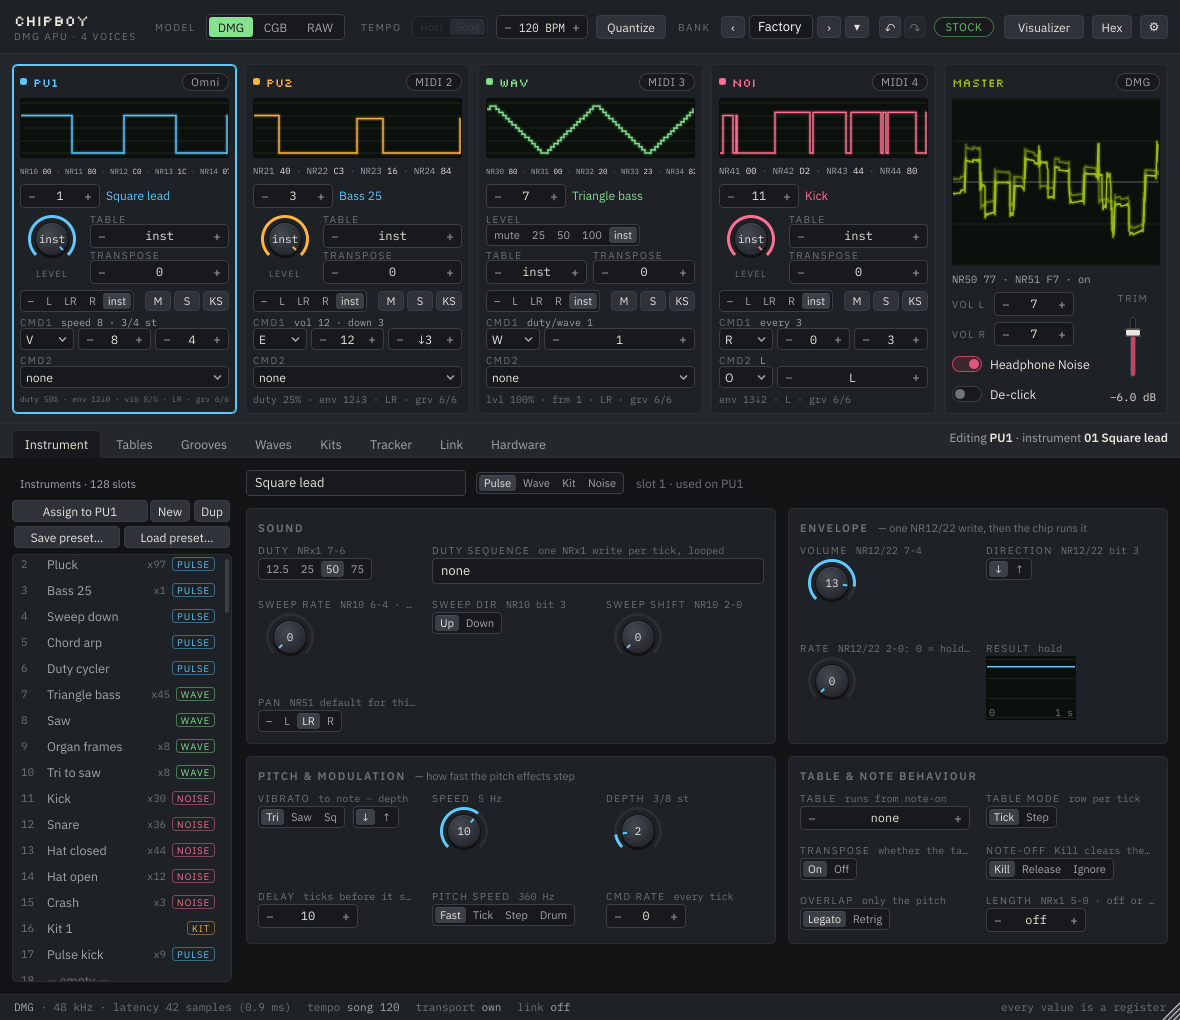
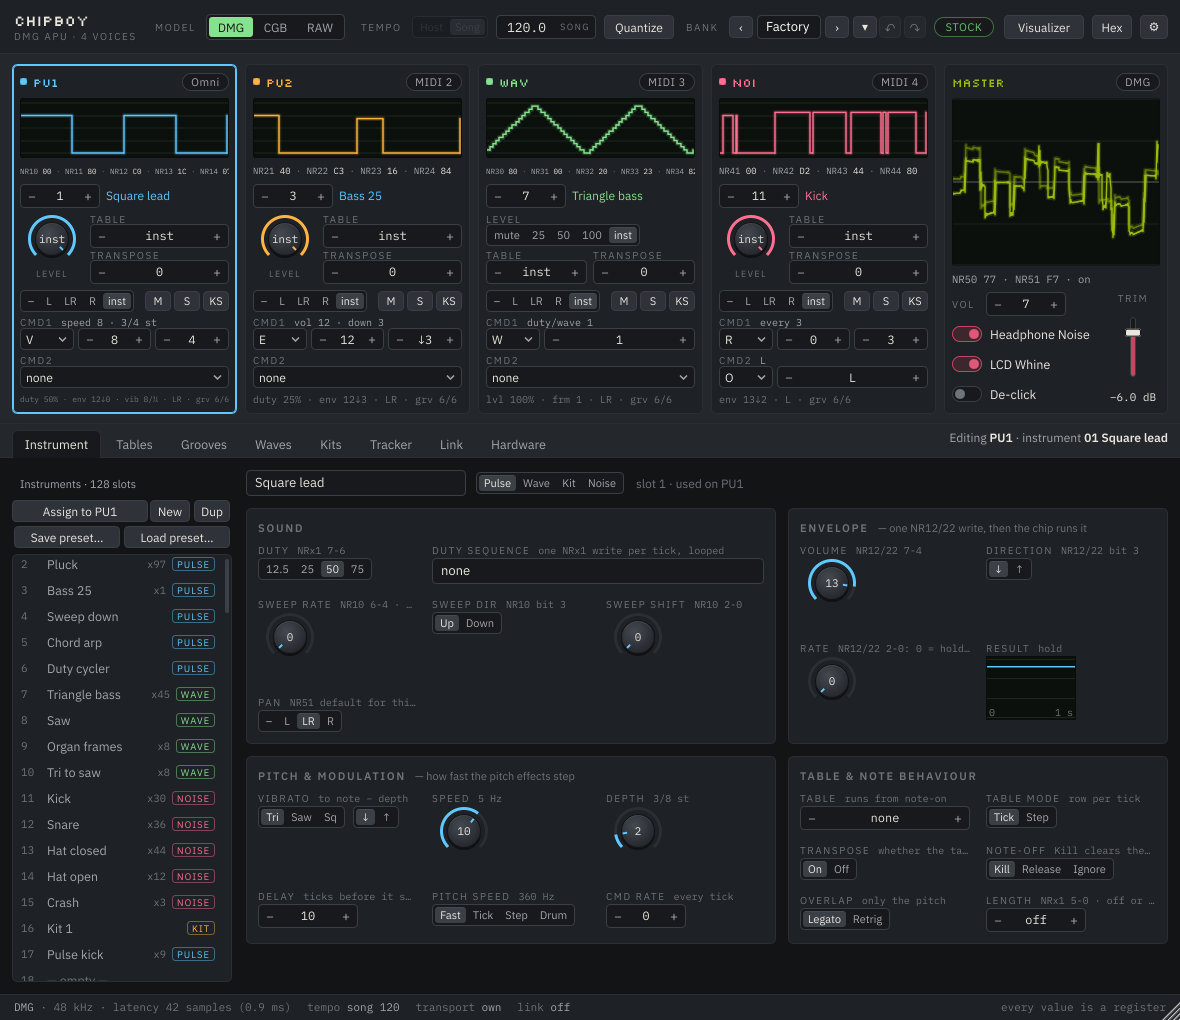
UI_DESIGN and CHANGES record the interface side of the third addendum
Section 2 for the header's tempo readout and the bank group that belongs to
the active song, and for the master strip's one VOL and three switches;
section 3 for how the scopes are held still, with the mechanism written out
-- why the old rule was not a phase, what the three keys are, and why they
survive a sliding window, a note change and vibrato; section 7 for the
three-way PLAYS switch and what a Hybrid channel greys out, for songs being
tabs as well as files, and for the head's new arithmetic, which comes to
the same 112 px.

The screenshots are regenerated from the demo opened in a tab of its own:
the Tracker tab, the header and mixer, the Hardware tab, Grooves and the
Voice window.

The CHANGES entry records the stage section by section, the STOCK badge
staying the window's rather than the tab's -- its two inputs are global
parameters, so a badge that never differed between tabs would only imply
that it could -- and the measurement behind the scope diagnosis.

Claude-Session: https://claude.ai/code/session_015RVPKMpKBZ57UV3Y3PWKkJ

diff --git a/docs/UI_DESIGN.md b/docs/UI_DESIGN.md
@@ -61,9 +61,18 @@ chosen height is remembered with the project, as the scale is. Reading order is 
 bottom: *what am I emulating → what is each voice doing → edit the thing I selected.*
 
 1. **Header.** Wordmark; the **model switch** (DMG / CGB / RAW); the **tempo group** —
-   source (Host / Song), the song's own BPM, and the *Quantize* toggle (§4); the bank
-   name with previous/next; a **STOCK / MODIFIED** badge (§5); the visualizer window
-   button; settings.
+   source (Host / Song), the **tempo in force** as a readout, and the *Quantize* toggle
+   (§4); the bank name with previous/next; a **STOCK / MODIFIED** badge (§5); the
+   visualizer window button; settings. The tempo is read only here — "120.0" with a
+   small *host* or *song* tag, drawn as a well so nothing invites a drag: the host's BPM
+   in Host mode, the active song's tempo in force in Song mode
+   ([`COMMANDS_AND_TEMPO.md`](COMMANDS_AND_TEMPO.md) §19). A song's own master tempo is
+   typed in the Tracker tab beside its *Start* and *Beats*, because it belongs to the
+   song and the window holds several. The **Bank group is the active song's bank**: its
+   name, the arrows and the menu — *Load bank into this song…*, *Save this song's
+   bank…*, *Reset this song's bank to factory* — all act on the song in the active tab
+   (§18). The badge beside it stays the window's: it reads the hardware departures,
+   which §18 keeps global.
 2. **The mixer row.** Four channel strips and a master strip. Every strip has its scope on
    top, mixer-bridge style, so the row reads at a glance while playing.
 3. **Editor tabs.** Instrument · Tables · Grooves · Waves · Kits · Tracker · Link ·
@@ -84,10 +93,19 @@ and solo, which are NR51 gates and therefore pop like the hardware.
 
 ### The master strip
 
-The stereo mix scope in LCD green; **master volume L and R** as 0–7 steppers where 0
-reads "1/8", not "mute"; **Headphone Noise**; the **output trim**, the one continuous
-control in the product, drawn as a fader with a dB readout so nobody mistakes it for
-part of the chip.
+The stereo mix scope in LCD green; the live **NR50 / NR51** line; one **VOL** stepper,
+0–7, where 0 reads "1/8" and not "mute"; the three switches — **Headphone Noise**,
+**LCD Whine**, **De-click**; and the **output trim**, the one continuous control in the
+product, drawn as a fader with a dB readout so nobody mistakes it for part of the chip.
+
+One VOL writes both NR50 sides ([`COMMANDS_AND_TEMPO.md`](COMMANDS_AND_TEMPO.md) §21).
+The two parameters stay — the `M` command and existing automation address left and
+right — so the control writes them together as **one undo step**, shows the left value,
+and, when something has moved them apart, shows both (`7·5`) with the tooltip saying
+which is which. Headphone Noise is the hiss and the frame hum; **LCD Whine** is the
+display's 9198 Hz line, an independent switch, so a unit with a quiet display is a
+switch rather than a compromise. De-click is a departure and lights the header's
+MODIFIED badge; the Hardware tab keeps the same three rows with the measured facts.
 
 ### 2.1 Editing conventions
 
@@ -154,7 +172,34 @@ breathing rather than as the trace sliding.
   DAC, on a 16-level grid; *Analog* is what leaves the machine after the coupling
   capacitor, so a low wave-channel note visibly sags on a DMG and turns into spikes on a
   CGB, and DAC-on clicks show as the steps they are. Both can be shown together.
-- **Zoom:** 1, 2, 4 or 8 periods. Noise uses a fixed time window.
+- **Zoom:** 1, 2, 4 or 8 periods. Noise uses a fixed time window, and so does a kit —
+  a kit is a sample, not a repeating wave, so there is no period to lock to.
+
+**How the picture is held still.** A channel's staircase repeats *exactly* every
+`32 × (2048 − f)` cycles (`64 ×` on the wave channel), so two windows of the same length
+that start on the same **phase** of it draw the same trace whichever period they fall
+in. "Start on the last rising edge before the window" is not that phase: a pulse has one
+rising edge in a period and so picks the same one every frame, but a wave has up to
+sixteen, and which of them was last before a window whose end moves with the audio
+thread is effectively random — the trace jumped by a fraction of a period every frame,
+which is what the flashing was. So the edge is chosen by what the waveform **is**, not
+by where the search began: every rising edge of one whole period is a candidate, and the
+one that **rises furthest** wins — ties go to the one whose level was held longest
+before it (an apex and a trough repeat a sample, and the trace carries only changes, so
+a trough's rise is held longest), then to the one that rises from the lowest level.
+Those are properties of the shape, so they name the same phase every frame and survive
+the window sliding; when the shape changes — a new note, a new wave — the next frame
+picks the new shape's edge and the picture re-locks at once, and under vibrato the
+period moves and the window with it while the edge stays the same one, so the shape
+breathes rather than sliding. A waveform that ties on all three keys has two identical
+halves, and starting on either draws the same picture. Nothing is remembered between
+frames: the paint is a pure function of the samples the timer snapshotted, so two paints
+of one snapshot are one picture. With less history in the ring than the window asks for
+— a low note that has only just started — the search moves up to what there is and the
+window keeps its length, so the picture is aligned and simply runs out on the right.
+`chipboy_uishot --scope-check` holds a note on every channel and renders each scope
+twice, a fifth of a second apart, comparing the two pixel for pixel
+([`COMMANDS_AND_TEMPO.md`](COMMANDS_AND_TEMPO.md) §22).
 - **The master scope** shows the actual output, with the clicks and the droop.
 - **Visualizer window.** A separate, resizable, clean window — the four scopes stacked
   or tiled, plus the master, no chrome, adjustable line weight, black or LCD ground,
@@ -394,10 +439,24 @@ down a column is how a tracker reads.
 **Per channel, in the lane's head**: a **record arm** — a red dot, on for a new song,
 saved with it — then the channel's name, the caption **PLAYS** and the switch that says
 what the channel plays: **MIDI**, the notes arriving from the host, shown greyed in the
-note column as the bar plays; or **Trkr**, its own cells, with incoming MIDI ignored
-([`COMMANDS_AND_TEMPO.md`](COMMANDS_AND_TEMPO.md) §14). A song can mix the two — lead
-from the piano roll, drums from the tracker. The phrase's **groove chip** closes the
-row; the groove itself is edited in the Grooves tab (§7.1).
+note column as the bar plays; **Trkr**, its own cells, with incoming MIDI ignored
+([`COMMANDS_AND_TEMPO.md`](COMMANDS_AND_TEMPO.md) §14); or **Hyb**, both at once — the
+notes come from MIDI and everything else from the cells at their steps, the instrument
+and table they select and their commands, fired once on whatever is sounding (§20). A
+song can mix all three — lead from the piano roll, drums from the tracker, a bass whose
+piano-roll notes take the song's commands. A Hybrid channel shows the roll's note greyed
+in the note column, as a MIDI channel does, since its cells' notes and OFFs are ignored;
+its **strip** carries a **HYBRID** tag beside the channel name and greys its Instrument,
+Table and both command slots, which the driver does not read there — the slots say *from
+the cells* where the resolved command reads, and every one of the four says the same
+thing in its tooltip: *the tracker's cells drive this channel*. Level, Pan, Transpose and
+the Velocity mode still apply.
+
+The phrase's **groove chip** closes the row; the groove itself is edited in the Grooves
+tab (§7.1). The third choice in PLAYS costs the chip about 30 px of a 236 px channel
+group, so it says as much as fits — the slot and its ticks (`2·7/5`) where there is room,
+the ticks alone at the demo's width, the slot number when a narrower window leaves only
+a chip — and the whole of it is in the tooltip and in the menu the chip opens.
 
 **The transport.** *Play*, *Stop* and *Loop* run the song when the plugin owns the
 transport — the Standalone, or a host that offers no play head — from the song start on
@@ -415,20 +474,42 @@ automation included, becomes a self-contained tracker song — the form a playba
 will need (§10). Recording captures what the driver actually did, so nothing is lost in
 translation.
 
-**Songs are files.** *Save song…* and *Load song…* write and read a `.cbsong` — chains,
-phrases, grooves, the steps and the bar overrides, tempo, song start, beats per bar,
-playback sources and arms — in `Documents/ChipBoy/Songs`, beside the banks folder. The
-file also records the bank's name and the name of every instrument slot the song uses,
-so a load can say where this bank differs: the line under the tool rows reads *"Loaded
-ChipBoy Demo — written with bank Factory, 11 instruments used. slot 7 was Triangle bass;
-this bank has Organ"*, and the same line goes to the status bar. With no file open that
-line is the song itself: its bars, its steps and how many phrases it uses.
+**Songs are tabs.** The strip under the head is one tab per loaded song
+([`COMMANDS_AND_TEMPO.md`](COMMANDS_AND_TEMPO.md) §18): its name, a dot while it has
+unsaved work, an **×** that closes it — asking first when that dot is there — and a **+**
+that starts an empty song on the factory bank. Clicking a tab makes it the **active**
+one, and only the active tab is live: it is what plays and records, what the Instrument,
+Tables, Grooves, Waves and Kits tabs show and edit, and whose bank the header's Bank
+group names. Every one of those tabs reads the song and the bank through the same two
+accessors, so a switch redraws all of them; `chipboy_uishot --tab-switch` checks exactly
+that, by marking one tab's bank and song and shooting the five panes on either side of a
+switch. The window keeps at least one song open.
+
+**Songs are files.** *Save song…* writes the active tab — chains, phrases, grooves, the
+steps and the bar overrides, its master tempo, song start, beats per bar, playback
+sources and arms, **and the bank it plays through** — as a `.cbsong` in
+`Documents/ChipBoy/Songs`, beside the banks folder; a tab that came from a file writes
+back to it, and one that has none opens a chooser and takes its name. *Load song…* opens
+a file in a **tab of its own**, unless the active tab is a fresh untitled song with
+nothing to lose, in which case the song lands there. A file that carries its own bank
+(format 5) is complete and brings its sounds with it; an older one takes a copy of the
+active tab's bank and the status line says where that bank differs — *"Opened ChipBoy
+Demo — written with bank Factory, 11 instruments used. slot 7 was Triangle bass; this
+bank has Organ"*. What a file did goes to the status bar, where every other file message
+goes; the tab strip stands where that line used to.
 
 **Numbers.** At the minimum window height the tab has 1156 × 512 and asks for no
 scrolling: a 112 px head over 400 px of lane, which is a 48 px head and sixteen 22 px
-rows. The head is two 26 px tool rows 6 px apart — transport, the playing readout, *Rec*
-and *Steps / bar* on the first; *Start*, *Beats*, *Save song…*, *Load song…* and *Export
-.gb* on the second — over the 48 px line that says what the song is. Across, the chain
+rows. The head is **two rows of grouped tools under their captions, then the tab strip**
+([`COMMANDS_AND_TEMPO.md`](COMMANDS_AND_TEMPO.md) §23): a 12 px caption line over a 26 px
+control row, 4 px, the same again, 6 px, and the 26 px strip where the summary line
+stood — 112 exactly, the same budget as before. Row one is **TRANSPORT** (*Play* 62,
+*Stop* 62, *Loop* 52, then the LED, *playing* and the bar . beat . sixteenth readout,
+328 in all) and **RECORD** (*Rec*, 62); row two is **SONG** (*Tempo* 84 — the song's
+master tempo, typed — *Start* 84, *Beats* 62, *Steps / bar* 80, each behind its own small
+caption, 562 in all) and **FILE** (*Save song…* 104, *Load song…* 104, *Export .gb* 96).
+A 16 px gap with a hairline down the middle of it stands between the two groups of a row,
+so the head reads as four things and not as eleven controls. Across, the chain
 takes 164 px off the right with a 12 px gap, leaving 980 for the lane: a 34 px step
 column and four channel groups of 236, each a 39 px note, 31 vel, 31 ins, 29 tbl and two
 53 px commands. The chain's own 164 is a 25 px gutter for the bar number and five 25 px
@@ -441,15 +522,20 @@ of the bar, so a swung phrase marks the row that is sounding; the position reado
 the transport stays bar . beat . sixteenth, which is the clock and not the groove.
 
 ![The Tracker tab with the demo song in it](screenshots/main-tracker.png)
-*The demo song loaded from `Demo/ChipBoy Demo.cbsong`, playing on the plugin's own
-transport: four channels of cells with their velocities, the arms lit beside each name,
-and the chain on the right with the playing bar marked.*
+*The demo song opened from `Demo/ChipBoy Demo.cbsong` into a tab of its own — the strip
+under the head holds it beside the empty song the plugin starts with — playing on the
+plugin's own transport: four channels of cells with their velocities, the arms lit beside
+each name, the three-way PLAYS switch in each head, and the chain on the right with the
+playing bar marked.*
 
 **The clock is 24 ticks to the beat** and a straight step is six of them, as LSDj. Which
-tempo is in force — *Tempo source*, *Song BPM* and *Quantize* — is the header's group,
-so it is one thing wherever you are working; this tab keeps what belongs to the song:
-its *Start* on the host's timeline and its *Beats* per bar, both greyed in Host mode and
-live whenever the plugin owns the transport, where the source is Song by definition.
+tempo is in force — *Tempo source*, the tempo readout and *Quantize* — is the header's
+group, so it is one thing wherever you are working; this tab keeps what belongs to the
+song: its master *Tempo*, its *Start* on the host's timeline and its *Beats* per bar.
+*Start* is greyed in Host mode and live whenever the plugin owns the transport, where the
+source is Song by definition; *Beats* is live in **both** modes, because the host
+contributes the tempo and never its time signature, so the song's bar is this many beats
+either way ([`COMMANDS_AND_TEMPO.md`](COMMANDS_AND_TEMPO.md) §11 as amended, §19).
 The status bar says which tempo is in force — "tempo host 120" or "tempo song 150".
 In Song mode the position at any host time is the integral of the song's own tempo map — the base tempo plus its `T` cells at known ticks —
 so a jump to bar 9 lands on the step playing through would have reached, and a playback

diff --git a/CHANGES.md b/CHANGES.md
@@ -26,6 +26,110 @@ intended product rather than a progress report.
 
 ## Spec revisions
 
+### 2026-09-08 — song tabs, the head, the master section, scopes, Hybrid (interface)
+
+The third addendum ([`docs/COMMANDS_AND_TEMPO.md`](docs/COMMANDS_AND_TEMPO.md) §18–§23),
+interface side, on top of the engine stage below. Nothing here is new behaviour: it is
+the window catching up with the tabs, the tempo readout, the noise split, the third
+playback source and the scope that was meant to hold still.
+
+**Changed:**
+
+- **The song tab strip (§18).** `ui::SongTabStrip` stands where the Tracker tab's
+  summary line was: one tab per loaded song with its name, a dot while it has unsaved
+  work and an × that closes it — asking first when that dot is there — and a **+** that
+  starts an empty song on the factory bank. Clicking a tab calls `setActiveTab`, and the
+  strip is rebuilt from `tabCount` / `tabName` / `tabFile` / `tabDirty` on the panel's
+  timer, which costs a comparison when nothing moved. *Load song…* now calls
+  `openSongFileInTab`, so a song opens in a tab of its own — unless the active tab is a
+  fresh untitled song with nothing to lose, where it lands in place through
+  `loadSongFile`; *Save song…* writes the tab's own file, or opens a chooser when it has
+  none, and the tab takes the file's name. The window keeps at least one song open.
+- **Every other tab already followed the active one**, through `song()` and `bank()`;
+  the editor's timer notices the two pointers change on a switch and sends
+  `songChanged` / `bankChanged` everywhere. `chipboy_uishot --tab-switch` proves it
+  rather than assuming it: it marks the *other* tab's bank and song — a renamed
+  instrument, a table step, a wave sample, a kit, a groove — then shoots the Instrument,
+  Tables, Grooves, Waves and Kits panes on either side of a switch and fails if any of
+  them drew the same picture twice. (Without the marking the test is worthless: both
+  tabs start on copies of the factory bank, and a new song's grooves *are* the factory
+  grooves, so four of the five panes were identical for good reasons.)
+- **The header's Bank group is the active song's bank (§18).** Its menu reads *Load bank
+  into this song…*, *Save this song's bank…* and *Reset this song's bank to factory*,
+  and the arrows say so too. The **STOCK / MODIFIED badge stays the window's**: it reads
+  the de-click and soften-pops departures, which §18 lists among the things that are
+  global and not per song, so there is nothing per tab for it to say. Considered making
+  it per tab as the brief reads; rejected because its two inputs are global parameters
+  and a badge that never differed between tabs would only imply that they could.
+- **The header's tempo is a readout (§19).** The Song tempo stepper leaves the header; a
+  small well takes its place with the tempo in force — `effectiveTempo()`, one decimal —
+  and a *host* or *song* tag beside it, sized to the tag so neither word is ever cut
+  short. The Host / Song switch stays, with the same rules about the plugin's own
+  transport. The song's **master tempo** is typed in the Tracker head instead, through
+  `setMasterTempo`, which is one undo step over the song and the parameter together.
+- **The Tracker head is two rows of grouped tools (§23).** TRANSPORT (*Play* 62, *Stop*
+  62, *Loop* 52, the LED, *playing*, the position readout) · RECORD (*Rec* 62) on the
+  first row; SONG (*Tempo* 84, *Start* 84, *Beats* 62, *Steps / bar* 80) · FILE (*Save
+  song…* 104, *Load song…* 104, *Export .gb* 96) on the second, each group under a
+  `draw::caption` and separated by a 16 px gap with a hairline down the middle. The
+  budget is unchanged and asserted in the source: 12 caption + 26 controls, 4, the same
+  again, 6, and the 26 px tab strip is 112 exactly, so the lane keeps its 400 px and the
+  tab still asks for no scrolling at 1180 × 1020. **Beats is live in both tempo modes**
+  now (§11 as amended, §19); *Start* still greys in Host mode. What a file did goes to
+  the status bar, which always had it — the head has no line of its own any more.
+- **The master section (§21).** One **VOL** stepper, 0–7, writes `master_l` and
+  `master_r` as one undo step (an explicit `beginGesture` / `endGesture` around the two
+  `setParam` calls). Both parameters stay, so the `M` command and existing automation
+  still address left and right; the readout shows the left value and, when something has
+  moved them apart, both — `7·5` — with the tooltip naming which is which. VOL L and
+  VOL R are gone. **LCD Whine** joins Headphone Noise and De-click as the third switch,
+  and the three of them plus the one stepper take exactly the height the two steppers
+  and two switches did, so the master scope is the same size. In the Hardware tab the
+  whine row no longer greys when the hiss is off — they are independent now — and the
+  two rows' measured facts were split along with them.
+- **The scopes hold still (§22).** The window was always meant to be two periods from a
+  rising edge; what it actually did was start on *the last rising edge before the
+  window*, and the window's end moves with the audio thread. A pulse has one rising edge
+  in a period, so it picked the same one every frame and was already still — a wave has
+  up to sixteen, so which one was "last" was effectively random and the trace jumped by a
+  fraction of a period every frame. Measured, not guessed: two frames of a steady tone
+  through the old code differ by 3832 pixels on the wave scope and by 0 on both pulses.
+  The edge is now chosen by what the waveform *is* — the furthest rise, then the level
+  held longest before it, then the lowest level rise
+  — three keys that are properties of the shape rather than of where the search began, so
+  they name the same phase every frame, re-lock in one frame when the shape changes, and
+  hold the same edge while vibrato moves the period. `paint()` also stopped reading the
+  `latestCycle` atomic live: the timer captures it with the samples, so one snapshot
+  draws one picture however often it is painted. With less history in the ring than the
+  window asks for the search moves up to what there is and the window keeps its length.
+  Noise keeps its fixed window, and **a kit now keeps one too** (`setFixedWindow`, set
+  from the instrument the driver is actually playing): a kit is a sample, not a repeating
+  wave, so there is no period to lock to. `chipboy_uishot --scope-check` holds a note on
+  each channel and compares two renderings of every scope a fifth of a second apart; all
+  four are pixel-identical now.
+- **PLAYS is a three-way switch (§20).** MIDI / Trkr / **Hyb**, writing
+  `tracker::NoteSource::Hybrid`, with a sentence of tooltip each. A Hybrid channel shows
+  the roll's note greyed in the note column, as a MIDI channel does, since its cells'
+  notes and OFFs are ignored. Its **strip** says so where it matters: a HYBRID tag beside
+  the channel name, and the Instrument, Table and both command slots greyed — the slots
+  reading *from the cells* where the resolved command would be — with the same tooltip on
+  all four, *the tracker's cells drive this channel*. The third choice costs the head
+  row about 30 px, which comes out of the phrase's groove chip: it now says as much as
+  fits, the slot and its ticks where there is room, the ticks alone at the demo's width,
+  the slot number when a narrower window leaves only a chip, and the whole of it stays in
+  the tooltip and the menu.
+- **`chipboy_uishot`** opens `--song` with `openSongFileInTab`, so a shot shows the strip
+  with two tabs in it, and gained `--hybrid`, `--scope-check` and `--tab-switch`.
+- Screenshots regenerated: the Tracker tab, the header and mixer (`main-instrument.png`),
+  the Hardware tab, Grooves and the Voice window.
+
+**Tests:** `chipboy_linktest`, `chipboy_recordtest`, `demo_song_matches` and
+`demo_state_matches` pass unchanged — no engine file was touched. The two new
+`chipboy_uishot` modes are the interface's own checks and are run by hand, since they
+need a display.
+
+**Departures from the brief:** the STOCK badge is not per tab, for the reason above.
+
 ### 2026-09-08 — song tabs, hybrid playback, the noise split (engine)
 
 The third addendum ([`docs/COMMANDS_AND_TEMPO.md`](docs/COMMANDS_AND_TEMPO.md) §18–§21),
